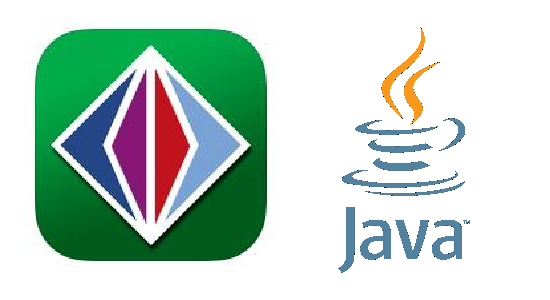
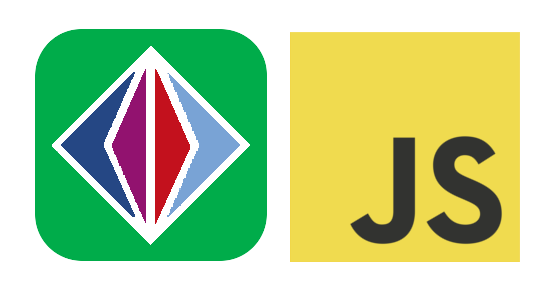
Update sis.js link+img

diff --git a/index.html b/index.html
@@ -29,16 +29,16 @@
 		<div class="content">
 			<div class="text-intro" id="site-type">
 				<h1>Just some</h1>
-				<h1 class="typewrite"><span>developer</span></h1>
+				<h1 class="typewrite"><span>fun projects </span></h1>
 				<p>these are pretty cool i guess. <a href="https://github.com/DarinMao">check me out on github</a></p>
 			</div>
 			<ul class="portfolio-grid">
 				<li class="grid-item" data-jkit="[show:delay=3000;speed=500;animation=fade]">
 				  <img src="img/sisapi.png">
-					<a href="#">  
+					<a href="https://github.com/DarinMao/sis.js">  
 					  <div class="grid-hover">
 						<h1>SIS API</h1>
-						<p>A Java StudentVUE API</p>
+						<p>A JavaScript StudentVUE API</p>
 					  </div>
 					</a>      
 				</li> 

diff --git a/js/script.js b/js/script.js
@@ -124,7 +124,7 @@ $(document).ready(function(){
 	setTimeout( function(){
 		if($("#site-type").length) {
         $(".typewrite span").typed({
-            strings: ["developer ", "fun projects ", "random guy "],
+            strings: ["random guy ", "developer ", "fun projects "],
             typeSpeed: 100,
             backDelay: 500,
             loop: false,
